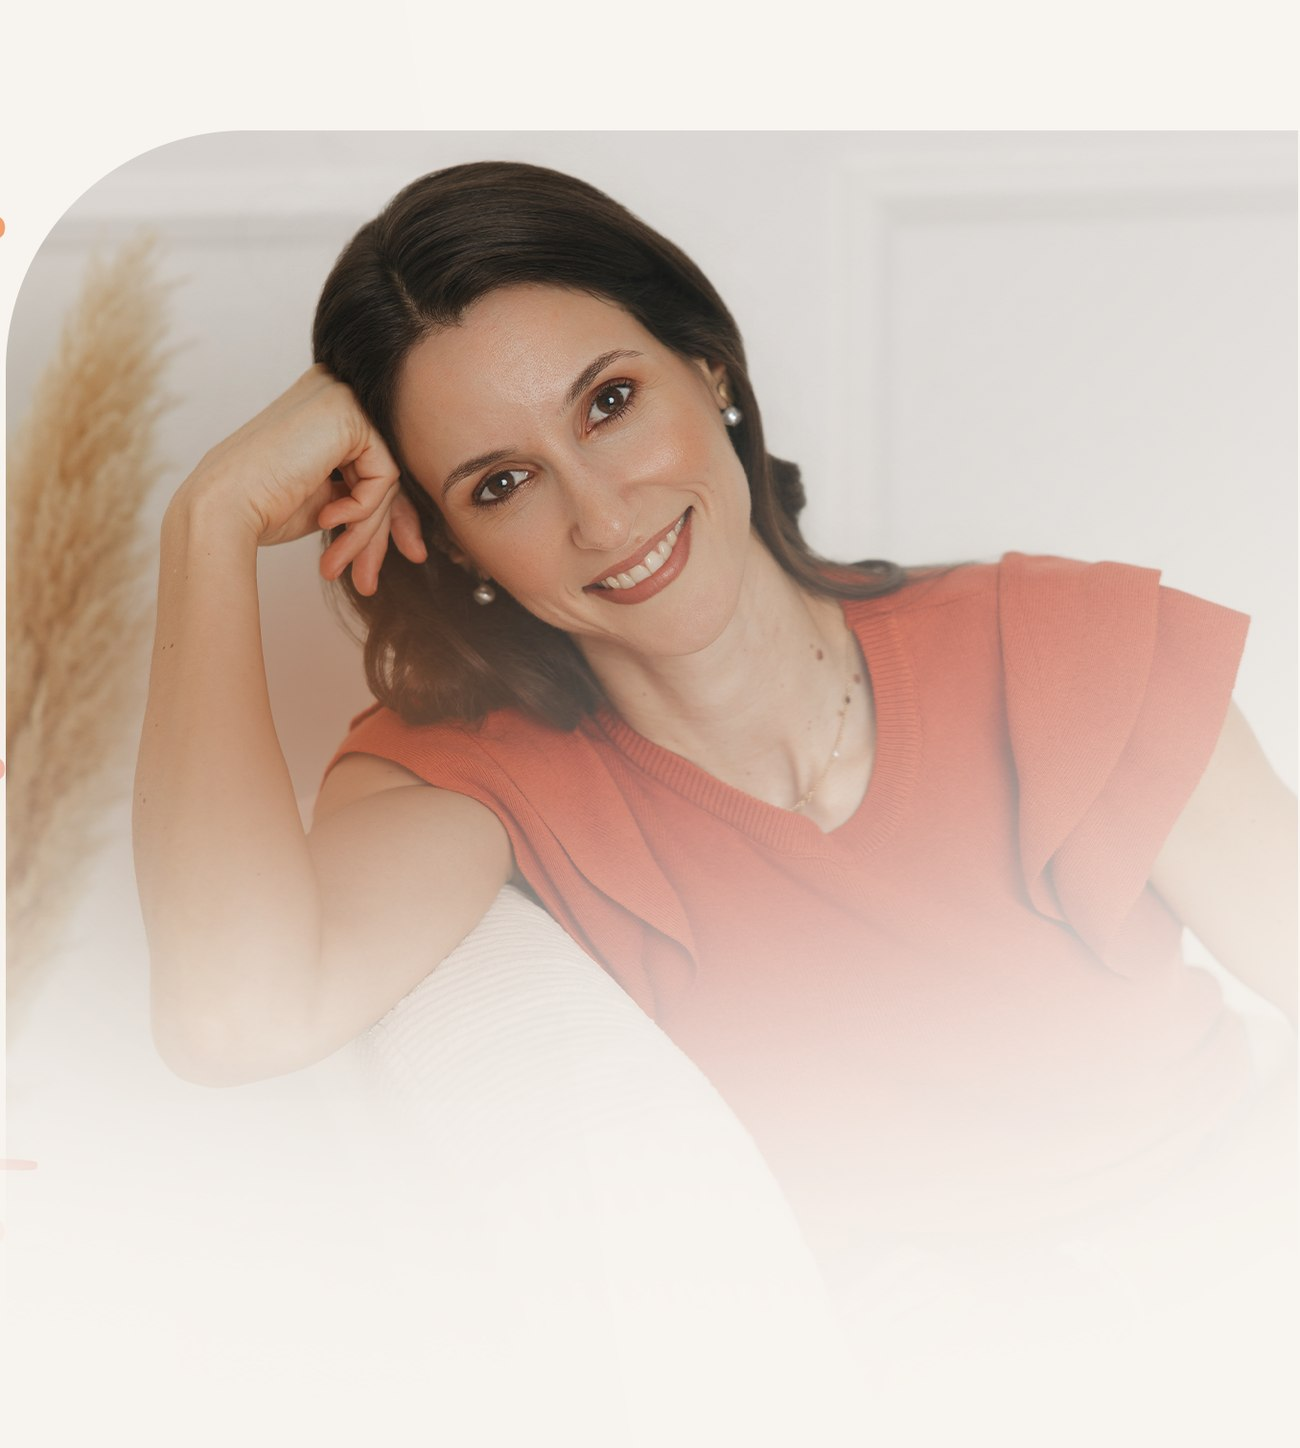
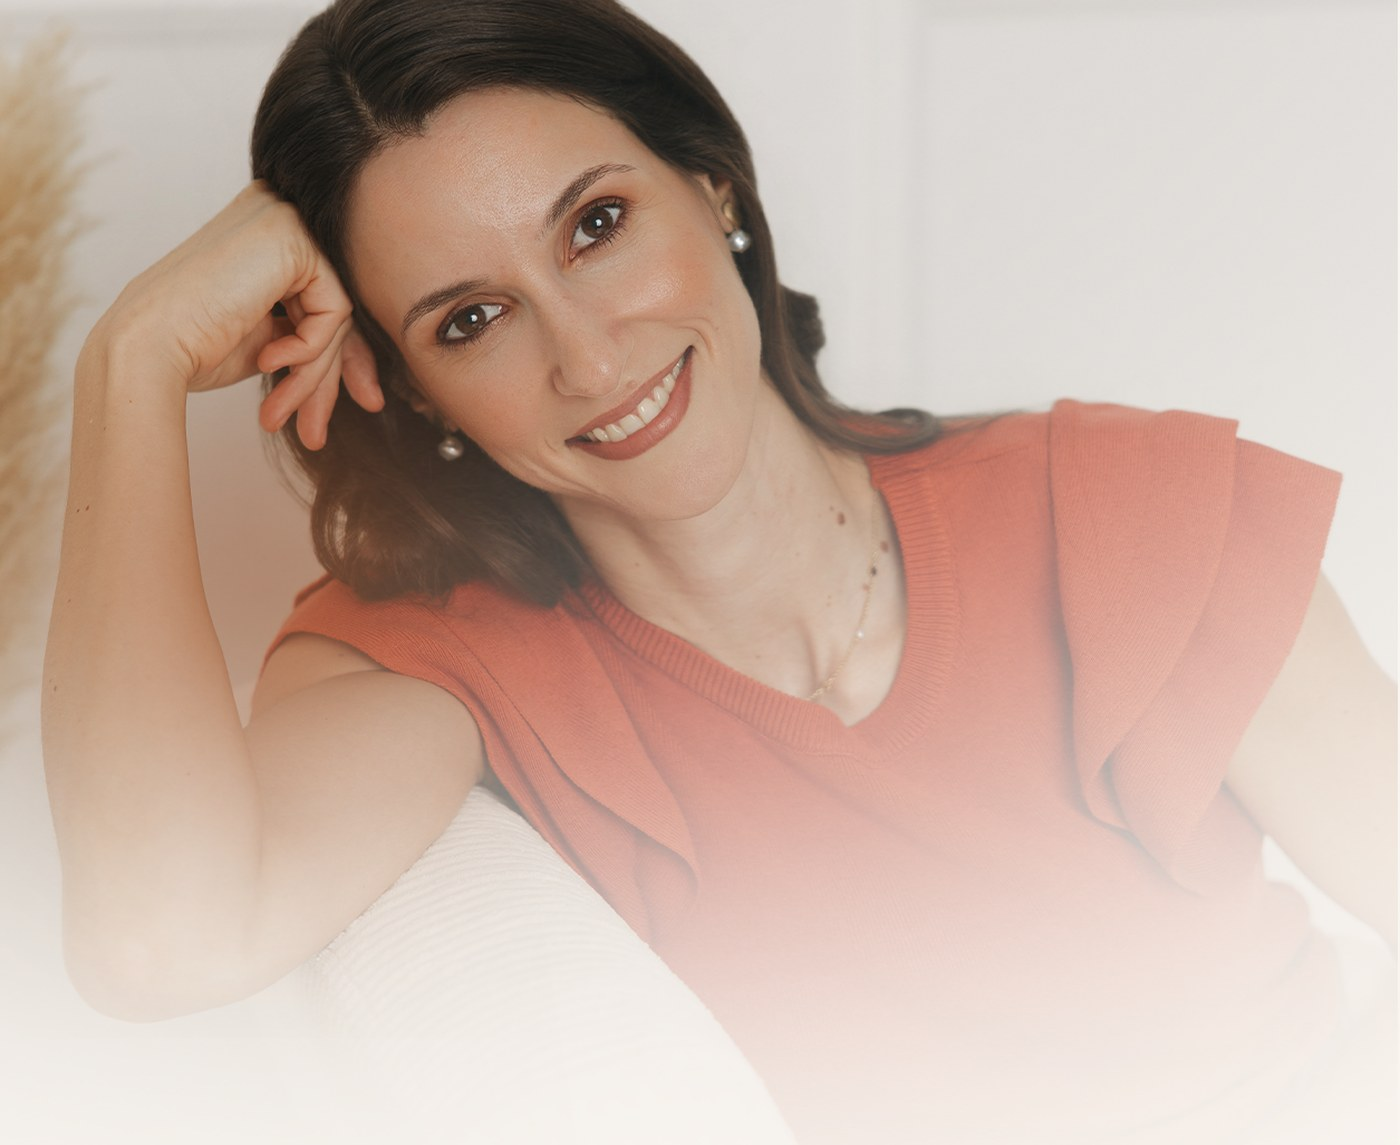
hero: remove mascara e usa foto limpa da Ana (rodada 5)

diff --git a/index.html b/index.html
@@ -87,8 +87,8 @@ section{position:relative}
 @media(prefers-reduced-motion:reduce){.prod-frame::before,.prod-ring,.prod-glow{animation:none}}
 /* HERO */
 .hero{position:relative;padding:132px 0 148px;background:#F7F4EF;overflow:hidden;isolation:isolate}
-/* a arte ocupa a metade direita inteira (cover), sem faixas nem cantos a vista */
-.hero::after{content:"";position:absolute;top:0;right:0;bottom:0;width:48%;z-index:0;pointer-events:none;background:url("assets/arte/hero-bg.jpg") center center/cover no-repeat;-webkit-mask-image:linear-gradient(90deg,transparent 0,#000 12%);mask-image:linear-gradient(90deg,transparent 0,#000 12%)}
+/* foto limpa (sem mascara, sem fade, sem cantos) a ocupar a metade direita inteira */
+.hero::after{content:"";position:absolute;top:0;right:0;bottom:0;width:48%;z-index:0;pointer-events:none;background:url("assets/arte/hero-foto.jpg") center center/cover no-repeat}
 .hero .wrap{max-width:1320px}
 .hero-grid{display:grid;grid-template-columns:minmax(0,600px) 1fr;gap:52px;align-items:center;position:relative;z-index:2}
 .hero-logo{display:block;width:100%;max-width:360px;height:auto;margin:0 0 24px}
@@ -465,7 +465,7 @@ footer::before{content:'';position:absolute;top:0;left:0;width:100%;height:2px;b
 @media(max-width:960px){
   /* a arte da expert desce para a base: o texto fica sempre sobre fundo liso */
   .hero{padding:56px 0 330px;background:#F7F4EF}
-  .hero::after{top:auto;right:0;left:0;bottom:0;width:100%;height:330px;background-position:center 22%;-webkit-mask-image:linear-gradient(180deg,transparent 0,#000 14%);mask-image:linear-gradient(180deg,transparent 0,#000 14%)}
+  .hero::after{top:auto;right:0;left:0;bottom:0;width:100%;height:330px;background-position:center 38%;-webkit-mask-image:none;mask-image:none}
   .hero .wrap{max-width:1160px}
   .hero-grid{grid-template-columns:1fr;gap:0}
   .hero-visual{display:none}
